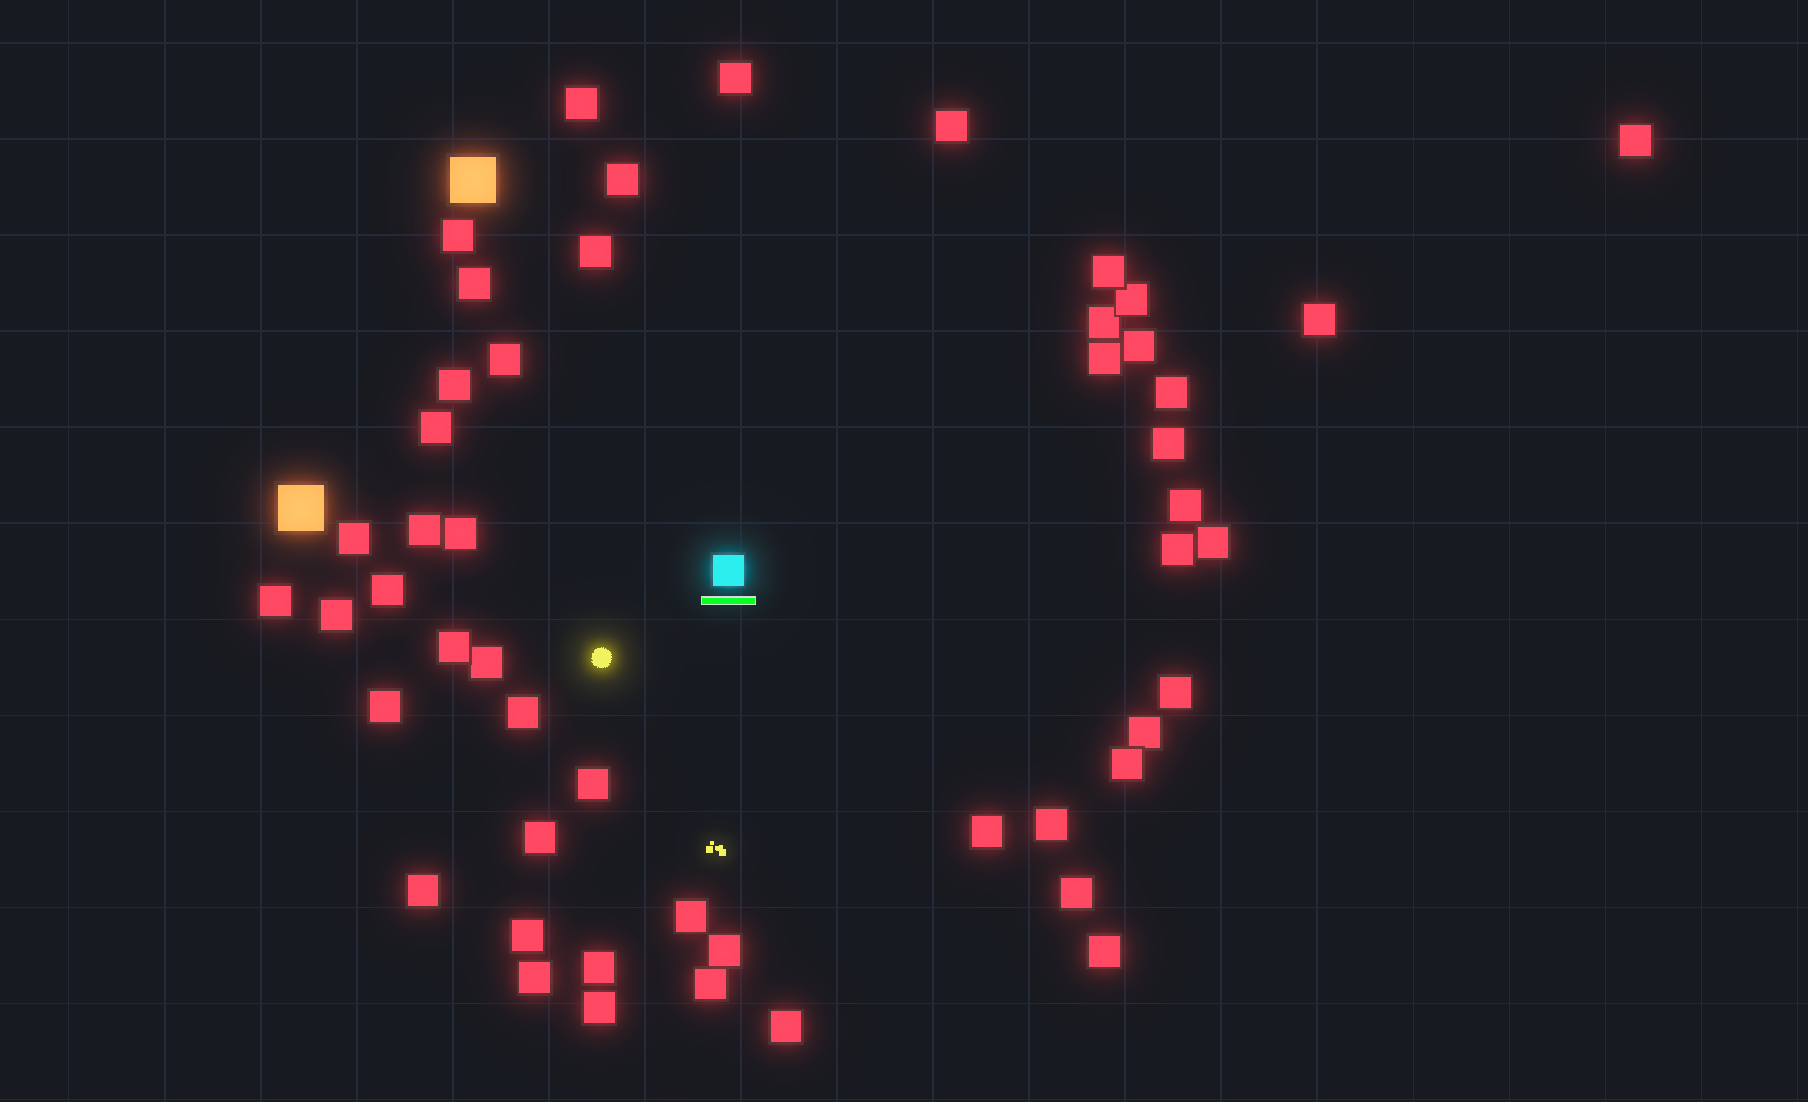
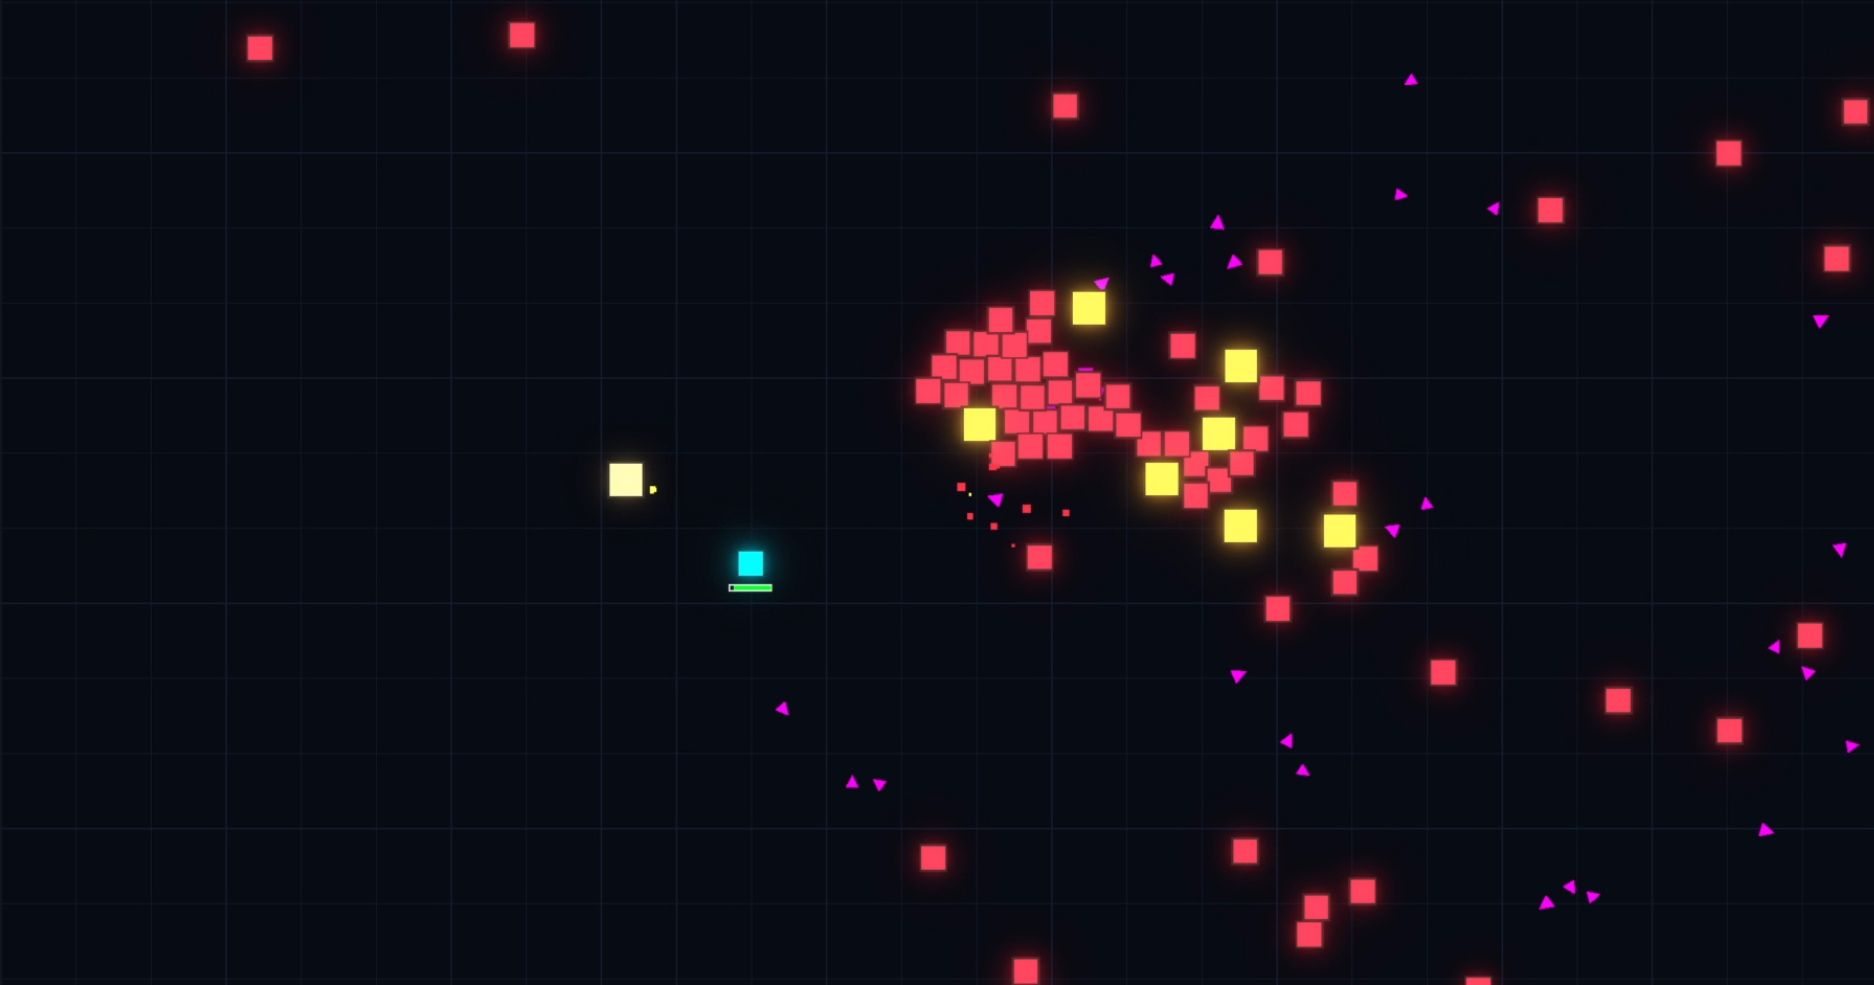
Update Neon Swarm visual assets
Refresh the Neon Swarm project branding by replacing the cover art and page background image with updated assets. The old tiled page background asset was removed, and the project data config now points to the new full-bleed background with centered cover positioning and no-repeat behavior.

diff --git a/assets/js/project-data.js b/assets/js/project-data.js
@@ -142,12 +142,11 @@ window.PORTFOLIO_PROJECTS = [
       description: 'See the current work-in-progress build of Neon Swarm in action.'
     },
     pageBackground: {
-      src: '../assets/images/project-neon-swarm-page-tile.png',
-      position: 'left top',
-      size: '128px 128px',
-      repeat: 'repeat',
-      attachment: 'fixed',
-      overlay: 0.10
+      src: '../assets/images/project-neon-swarm-page-background.png',
+      position: 'center center',
+      size: 'cover',
+      repeat: 'no-repeat',
+      attachment: 'fixed'
     },
     summary: 'A solo-developed action game built in Godot and C#, featuring large enemy swarms, modular combat systems, weapons, pickups, upgrades and effects-driven player feedback.',
     overview: 'Neon Swarm is a solo-developed 2D action roguelike game built in Godot with C#. I structured the codebase around modular and data driven player, enemy, weapon, spawning, pickup, upgrade, UI and visual-effects systems, allowing features to be developed, balanced and extended easily.',
